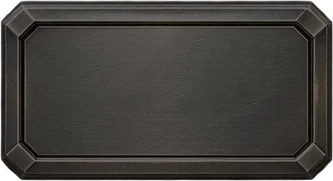
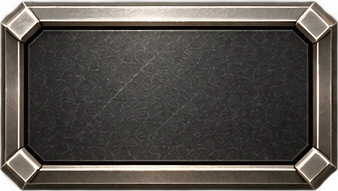
Prismatic skin redone in white gold and mother-of-pearl; its light travels: an iridescent sheen sweeps over the frame and the launch plate, the pointers catch it

diff --git a/ui/app.css b/ui/app.css
@@ -1978,7 +1978,7 @@ img.ring-master { box-shadow: 0 0 10px rgba(255, 211, 107, .75); }
   --frame: url("hud/infernal_frame.webp"); --frame-glow: url("hud/infernal_frame_glow.webp"); --ptr-t: url("hud/infernal_ptr_t.webp"); --ptr-t-glow: url("hud/infernal_ptr_t_glow.webp"); --ptr-b: url("hud/infernal_ptr_b.webp"); --ptr-b-glow: url("hud/infernal_ptr_b_glow.webp"); }
 :root[data-roulette="infernal"] .gs-strip { --k: 0.4; }
 :root[data-roulette="prism"] .strip-hud { display: block; }
-:root[data-roulette="prism"] :is(.strip, .gs-strip) { --edge-t: 30; --edge-b: 30; --edge-s: 6; --k: 0.5; --top: 70; --bottom: 69; --left: 80; --right: 80; --pw: 128; --pth: 104; --pbh: 103;
+:root[data-roulette="prism"] :is(.strip, .gs-strip) { --edge-t: 32; --edge-b: 34; --edge-s: 4; --k: 0.5; --top: 71; --bottom: 72; --left: 99; --right: 96; --pw: 140; --pth: 109; --pbh: 114;
   --frame: url("hud/prism_frame.webp"); --frame-glow: url("hud/prism_frame_glow.webp"); --ptr-t: url("hud/prism_ptr_t.webp"); --ptr-t-glow: url("hud/prism_ptr_t_glow.webp"); --ptr-b: url("hud/prism_ptr_b.webp"); --ptr-b-glow: url("hud/prism_ptr_b_glow.webp"); }
 :root[data-roulette="prism"] .gs-strip { --k: 0.235; }
 :root[data-roulette="void"] .strip-hud { display: block; }
@@ -2028,10 +2028,24 @@ img.ring-master { box-shadow: 0 0 10px rgba(255, 211, 107, .75); }
   box-shadow: 0 0 5px hsl(var(--h) 100% 62%), 0 0 12px rgba(255, 90, 20, .55); animation-duration: 1.25s; animation-timing-function: cubic-bezier(.25, .5, .6, 1); }
 
 /* prismatic: titanium and dichroic glass, the inlays shift color slowly as if the light moved */
-:root[data-roulette="prism"] .strip-hud .hg, :root[data-roulette="prism"] .strip-hud b::after { animation: hudDichro 7s ease-in-out infinite alternate; }
-:root[data-roulette="prism"] .strip-hud .hb { animation: hudDichroBloom 7s ease-in-out infinite alternate; }
-@keyframes hudDichro { 0% { filter: hue-rotate(-35deg); opacity: .35; } 50% { opacity: .9; } 100% { filter: hue-rotate(45deg); opacity: .55; } }
-@keyframes hudDichroBloom { 0% { filter: blur(5px) hue-rotate(-35deg); opacity: .2; } 50% { opacity: .6; } 100% { filter: blur(5px) hue-rotate(45deg); opacity: .35; } }
+/* prismatic: white gold and mother-of-pearl; the nacre breathes softly and a light sweeps over it now and then,
+   the pointers catching it as it passes the middle */
+:root[data-roulette="prism"] .strip-hud .hg, :root[data-roulette="prism"] .strip-hud .hb, :root[data-roulette="prism"] .strip-hud b::after {
+  animation: hudHeat 5s ease-in-out infinite alternate; }
+.strip-hud .hs, .strip-hud .ht { position: absolute; inset: 0; display: none; pointer-events: none; mix-blend-mode: screen;
+  -webkit-mask-box-image-source: var(--frame-glow); -webkit-mask-box-image-slice: var(--top) var(--right) var(--bottom) var(--left);
+  -webkit-mask-box-image-width: calc(var(--top) * var(--k) * 1px) calc(var(--right) * var(--k) * 1px) calc(var(--bottom) * var(--k) * 1px) calc(var(--left) * var(--k) * 1px);
+  -webkit-mask-box-image-repeat: stretch;
+  background: linear-gradient(100deg, transparent 0 44%, rgba(255, 255, 255, .7) 47.5%, #fff 49.5%, #fff 50.5%, rgba(255, 255, 255, .7) 52.5%, transparent 56% 100%) 100% 0 / 260% 100% no-repeat; }
+/* the iridescence travels with it: the nacre turns rose, aqua, then lavender as the light goes by */
+.strip-hud .ht { mix-blend-mode: multiply; background: linear-gradient(100deg, transparent 0 30%, rgba(255, 168, 208, .95) 36%,
+  rgba(132, 222, 232, .95) 41%, rgba(186, 160, 255, .95) 46%, transparent 50% 100%) 100% 0 / 260% 100% no-repeat; }
+:root[data-roulette="prism"] .strip-hud :is(.hs, .ht) { display: block; animation: hudSweep 6.5s ease-in-out infinite; }
+:root[data-roulette="prism"] .strip.spinning .strip-hud :is(.hs, .ht, b), :root[data-roulette="prism"] .gs-row.spinning .strip-hud :is(.hs, .ht, b) { animation-duration: 2s; }
+:root[data-roulette="prism"] .strip-hud .hf { filter: brightness(.86); }
+@keyframes hudSweep { 0%, 12% { background-position: 100% 0; } 60%, 100% { background-position: 0% 0; } }
+:root[data-roulette="prism"] .strip-hud b { animation: ptrGlint 6.5s ease-in-out infinite; }
+@keyframes ptrGlint { 0%, 30%, 44%, 100% { filter: none; } 36% { filter: brightness(1.9) drop-shadow(0 0 6px rgba(255, 240, 250, .9)); } }
 :root[data-roulette="prism"] .strip-marker::before, :root[data-roulette="prism"] .gs-mark {
   background: linear-gradient(180deg, transparent, rgba(225, 232, 248, .95) 12%, #fff 50%, rgba(225, 232, 248, .95) 88%, transparent);
   box-shadow: 0 0 8px rgba(200, 214, 255, .8), 0 0 20px rgba(170, 190, 255, .35); }
@@ -2110,46 +2124,6 @@ img.ring-master { box-shadow: 0 0 10px rgba(255, 211, 107, .75); }
 :root[data-roulette="infernal"] .rl-page .launch::after { left: 0; width: auto; right: 0; transform: none; background: url("hud/infernal_primary_glow.webp") center / 100% 100% no-repeat; mix-blend-mode: screen; animation: hudHeat 3.4s ease-in-out infinite alternate; }
 :root[data-roulette="infernal"] .rl-page .launch:hover { box-shadow: 0 14px 36px rgba(0, 0, 0, .55), 0 0 30px rgba(var(--acc), .18); }
 :root[data-roulette="infernal"] .rl-page .launch:hover::before { filter: brightness(1.15); }
-
-/* prism: the Roulette tab dressed in the kit of its skin (the other tabs don't change) */
-:root[data-roulette="prism"] .rl-page { --gold: #c9d1df; --gold-hi: #eef2f8; --gold-pale: #f4f6fa; --gold-deep: #5d6676; --gold-light: #e3e8f1;
-  --acc: 201, 209, 223; --acc-hi: 238, 242, 248; --hair-gold: rgba(201, 209, 223, .26);
-  --metal-hi: #ffffff; --metal: #dfe4ec; --metal-lo: #8d96a6; --on-metal: #141821;
-  --teal: #a9dcef; }
-:root[data-roulette="prism"] #main:has(.rl-page) { background: radial-gradient(90% 60% at 80% -10%, rgba(190, 205, 255, .07), transparent 60%), linear-gradient(180deg, rgba(12, 13, 17, .5), rgba(9, 10, 13, .68)); }
-:root[data-roulette="prism"] .rl-page { --pe: 7px 1px 7px 1px; }   /* where the panel frame's bars begin: the panels stay within */
-:root[data-roulette="prism"] .rl-page .card { background: none; backdrop-filter: none; border: 0; border-radius: 0; padding: 24px 28px; isolation: isolate; }
-:root[data-roulette="prism"] .rl-page .card::after { content: ""; position: absolute; inset: var(--pe); z-index: -1; background: linear-gradient(180deg, rgba(20, 22, 28, .8), rgba(11, 12, 16, .84)); pointer-events: none; }
-:root[data-roulette="prism"] .rl-page .w-hero .w-art, :root[data-roulette="prism"] .rl-page .w-hero .w-shade { inset: var(--pe); border-radius: 0; }
-:root[data-roulette="prism"] .rl-page .controls { padding: 26px 30px 22px; }
-:root[data-roulette="prism"] .rl-page .roll-now { border-color: rgba(169, 220, 239, .4); background: linear-gradient(90deg, rgba(169, 220, 239, .13), rgba(169, 220, 239, .02)); border-radius: 4px; }
-:root[data-roulette="prism"] .rl-page .roll-now:hover { box-shadow: 0 0 18px rgba(169, 220, 239, .16); }
-:root[data-roulette="prism"] .rl-page .card::before { inset: 0; border-radius: 0; background: none; border: solid transparent; border-width: 14px 25px 14px 25px;
-  border-image: url("hud/prism_panel.webp") 59 104 59 104 / 14px 25px 14px 25px stretch; z-index: 1; }
-:root[data-roulette="prism"] .rl-page .role-btn, :root[data-roulette="prism"] .rl-page .chip, :root[data-roulette="prism"] .rl-page .btn, :root[data-roulette="prism"] .rl-page .sr-pause { border: 0; border-radius: 0; background: none; box-shadow: none; isolation: isolate; color: #c4cad6; }
-:root[data-roulette="prism"] .rl-page .role-btn::before, :root[data-roulette="prism"] .rl-page .chip::before, :root[data-roulette="prism"] .rl-page .btn::before, :root[data-roulette="prism"] .rl-page .sr-pause::before { content: ""; position: absolute; inset: 0; z-index: -1; pointer-events: none; transition: filter .2s; }
-:root[data-roulette="prism"] .rl-page .role-btn::before { border: solid transparent; border-width: 14px 14px 14px 14px; border-image: url("hud/prism_btn.webp") 47 47 47 47 fill / 14px 14px 14px 14px stretch; }
-:root[data-roulette="prism"] .rl-page .chip::before, :root[data-roulette="prism"] .rl-page .btn::before, :root[data-roulette="prism"] .rl-page .sr-pause::before { border: solid transparent; border-width: 9px 9px 9px 9px; border-image: url("hud/prism_btn.webp") 47 47 47 47 fill / 9px 9px 9px 9px stretch; }
-:root[data-roulette="prism"] .rl-page .chip, :root[data-roulette="prism"] .rl-page .btn, :root[data-roulette="prism"] .rl-page .sr-pause { position: relative; }
-:root[data-roulette="prism"] .rl-page .role-btn:hover::before, :root[data-roulette="prism"] .rl-page .chip:hover::before, :root[data-roulette="prism"] .rl-page .btn:hover::before, :root[data-roulette="prism"] .rl-page .sr-pause:hover::before { filter: brightness(1.25); }
-:root[data-roulette="prism"] .rl-page .role-btn.on, :root[data-roulette="prism"] .rl-page .chip.on { color: #ffffff; background: none; box-shadow: none; }
-:root[data-roulette="prism"] .rl-page .role-btn.on::before { border-image-source: url("hud/prism_btn_on.webp"); filter: brightness(1.6) contrast(1.05); }
-:root[data-roulette="prism"] .rl-page .chip.on::before { border-image-source: url("hud/prism_btn_on.webp"); filter: brightness(1.6) contrast(1.05); }
-:root[data-roulette="prism"] .rl-page .role-btn.on::after, :root[data-roulette="prism"] .rl-page .chip.on::after { content: ""; position: absolute; inset: 0; z-index: -1; pointer-events: none; background: url("hud/prism_btn_on_glow.webp") center / 100% 100% no-repeat; mix-blend-mode: screen; animation: hudDichro 7s ease-in-out infinite alternate; }
-:root[data-roulette="prism"] .rl-page .gs-row { border-radius: 4px; background: linear-gradient(180deg, rgba(20, 22, 28, .8), rgba(11, 12, 16, .84)); }
-:root[data-roulette="prism"] .rl-page .gp-role { position: relative; border: 0; border-radius: 0; background: none; box-shadow: none; isolation: isolate; }
-:root[data-roulette="prism"] .rl-page .gp-role::before { content: ""; position: absolute; inset: 0; z-index: -1; pointer-events: none; border: solid transparent; border-width: 6px 6px 6px 6px; border-image: url("hud/prism_btn.webp") 47 47 47 47 fill / 6px 6px 6px 6px stretch; }
-:root[data-roulette="prism"] .rl-page .gp-role.on { background: none; box-shadow: none; }
-:root[data-roulette="prism"] .rl-page .gp-role.on::before { border-image-source: url("hud/prism_btn_on.webp"); filter: brightness(1.6) contrast(1.05); }
-:root[data-roulette="prism"] .rl-page .input { background: rgba(6, 5, 5, .55); border-color: rgba(var(--acc), .22); border-radius: 3px; }
-:root[data-roulette="prism"] .rl-page .btn-gold:not(.launch) { background: none; box-shadow: none; border-radius: 0; isolation: isolate; color: #ffffff; overflow: visible; }
-:root[data-roulette="prism"] .rl-page .btn-gold:not(.launch)::before { content: ""; position: absolute; inset: 0; z-index: -1; border: solid transparent; border-width: 10px 10px 10px 10px; border-image: url("hud/prism_btn_on.webp") 46 46 46 46 fill / 10px 10px 10px 10px stretch; }
-:root[data-roulette="prism"] .rl-page .btn-gold:not(.launch)::after { display: none; }
-:root[data-roulette="prism"] .rl-page .launch { background: none; box-shadow: 0 12px 30px rgba(0, 0, 0, .5); border-radius: 0; overflow: visible; }
-:root[data-roulette="prism"] .rl-page .launch::before { padding: 0; -webkit-mask: none; mask: none; background: none; border: solid transparent; border-width: 24px 24px 24px 24px; border-image: url("hud/prism_primary.webp") 71 71 71 71 fill / 24px 24px 24px 24px stretch; }
-:root[data-roulette="prism"] .rl-page .launch::after { left: 0; width: auto; right: 0; transform: none; background: url("hud/prism_primary_glow.webp") center / 100% 100% no-repeat; mix-blend-mode: screen; animation: hudDichro 7s ease-in-out infinite alternate; }
-:root[data-roulette="prism"] .rl-page .launch:hover { box-shadow: 0 14px 36px rgba(0, 0, 0, .55), 0 0 30px rgba(var(--acc), .18); }
-:root[data-roulette="prism"] .rl-page .launch:hover::before { filter: brightness(1.15); }
 
 /* void: the Roulette tab dressed in the kit of its skin (the other tabs don't change) */
 :root[data-roulette="void"] .rl-page { --gold: #b897e6; --gold-hi: #dac6f6; --gold-pale: #efe7fb; --gold-deep: #4a2f6e; --gold-light: #ddcdf4;
@@ -2230,3 +2204,44 @@ img.ring-master { box-shadow: 0 0 10px rgba(255, 211, 107, .75); }
 :root[data-roulette="gold"] .rl-page .launch::after { left: 0; width: auto; right: 0; transform: none; background: url("hud/gold_primary_glow.webp") center / 100% 100% no-repeat; mix-blend-mode: screen; animation: hudHeat 6s ease-in-out infinite alternate; }
 :root[data-roulette="gold"] .rl-page .launch:hover { box-shadow: 0 14px 36px rgba(0, 0, 0, .55), 0 0 30px rgba(var(--acc), .18); }
 :root[data-roulette="gold"] .rl-page .launch:hover::before { filter: brightness(1.15); }
+
+/* prism: the Roulette tab dressed in the kit of its skin (the other tabs don't change) */
+:root[data-roulette="prism"] .rl-page { --gold: #e2d4c0; --gold-hi: #f5ece0; --gold-pale: #fbf6ef; --gold-deep: #6e6252; --gold-light: #efe3d3;
+  --acc: 226, 212, 192; --acc-hi: 245, 236, 224; --hair-gold: rgba(226, 212, 192, .26);
+  --metal-hi: #fffaf3; --metal: #eadccb; --metal-lo: #a6957e; --on-metal: #1d1914;
+  --teal: #c9e6e4; }
+:root[data-roulette="prism"] #main:has(.rl-page) { background: radial-gradient(90% 60% at 80% -10%, rgba(240, 225, 235, .06), transparent 60%), linear-gradient(180deg, rgba(13, 13, 15, .52), rgba(9, 9, 11, .7)); }
+:root[data-roulette="prism"] .rl-page { --pe: 7px 1px 8px 1px; }   /* where the panel frame's bars begin: the panels stay within */
+:root[data-roulette="prism"] .rl-page .card { background: none; backdrop-filter: none; border: 0; border-radius: 0; padding: 24px 28px; isolation: isolate; }
+:root[data-roulette="prism"] .rl-page .card::after { content: ""; position: absolute; inset: var(--pe); z-index: -1; background: linear-gradient(180deg, rgba(20, 20, 22, .8), rgba(11, 11, 13, .84)); pointer-events: none; }
+:root[data-roulette="prism"] .rl-page .w-hero .w-art, :root[data-roulette="prism"] .rl-page .w-hero .w-shade { inset: var(--pe); border-radius: 0; }
+:root[data-roulette="prism"] .rl-page .controls { padding: 26px 30px 22px; }
+:root[data-roulette="prism"] .rl-page .roll-now { border-color: rgba(201, 230, 228, .4); background: linear-gradient(90deg, rgba(201, 230, 228, .13), rgba(201, 230, 228, .02)); border-radius: 4px; }
+:root[data-roulette="prism"] .rl-page .roll-now:hover { box-shadow: 0 0 18px rgba(201, 230, 228, .16); }
+:root[data-roulette="prism"] .rl-page .card::before { inset: 0; border-radius: 0; background: none; border: solid transparent; border-width: 13px 25px 13px 25px;
+  border-image: url("hud/prism_panel.webp") 56 105 56 105 / 13px 25px 13px 25px stretch; z-index: 1; }
+:root[data-roulette="prism"] .rl-page .role-btn, :root[data-roulette="prism"] .rl-page .chip, :root[data-roulette="prism"] .rl-page .btn, :root[data-roulette="prism"] .rl-page .sr-pause { border: 0; border-radius: 0; background: none; box-shadow: none; isolation: isolate; color: #cfc8bf; }
+:root[data-roulette="prism"] .rl-page .role-btn::before, :root[data-roulette="prism"] .rl-page .chip::before, :root[data-roulette="prism"] .rl-page .btn::before, :root[data-roulette="prism"] .rl-page .sr-pause::before { content: ""; position: absolute; inset: 0; z-index: -1; pointer-events: none; transition: filter .2s; }
+:root[data-roulette="prism"] .rl-page .role-btn::before { border: solid transparent; border-width: 15px 15px 15px 15px; border-image: url("hud/prism_btn.webp") 49 49 49 49 fill / 15px 15px 15px 15px stretch; }
+:root[data-roulette="prism"] .rl-page .chip::before, :root[data-roulette="prism"] .rl-page .btn::before, :root[data-roulette="prism"] .rl-page .sr-pause::before { border: solid transparent; border-width: 10px 10px 10px 10px; border-image: url("hud/prism_btn.webp") 49 49 49 49 fill / 10px 10px 10px 10px stretch; }
+:root[data-roulette="prism"] .rl-page .chip, :root[data-roulette="prism"] .rl-page .btn, :root[data-roulette="prism"] .rl-page .sr-pause { position: relative; }
+:root[data-roulette="prism"] .rl-page .role-btn:hover::before, :root[data-roulette="prism"] .rl-page .chip:hover::before, :root[data-roulette="prism"] .rl-page .btn:hover::before, :root[data-roulette="prism"] .rl-page .sr-pause:hover::before { filter: brightness(1.25); }
+:root[data-roulette="prism"] .rl-page .role-btn.on, :root[data-roulette="prism"] .rl-page .chip.on { color: #fffaf4; background: none; box-shadow: none; }
+:root[data-roulette="prism"] .rl-page .role-btn.on::before { border-image-source: url("hud/prism_btn_on.webp"); filter: brightness(1.15); }
+:root[data-roulette="prism"] .rl-page .chip.on::before { border-image-source: url("hud/prism_btn_on.webp"); filter: brightness(1.15); }
+:root[data-roulette="prism"] .rl-page .role-btn.on::after, :root[data-roulette="prism"] .rl-page .chip.on::after { content: ""; position: absolute; inset: 0; z-index: -1; pointer-events: none; background: url("hud/prism_btn_on_glow.webp") center / 100% 100% no-repeat; mix-blend-mode: screen; animation: hudHeat 5s ease-in-out infinite alternate; }
+:root[data-roulette="prism"] .rl-page .gs-row { border-radius: 4px; background: linear-gradient(180deg, rgba(20, 20, 22, .8), rgba(11, 11, 13, .84)); }
+:root[data-roulette="prism"] .rl-page .gp-role { position: relative; border: 0; border-radius: 0; background: none; box-shadow: none; isolation: isolate; }
+:root[data-roulette="prism"] .rl-page .gp-role::before { content: ""; position: absolute; inset: 0; z-index: -1; pointer-events: none; border: solid transparent; border-width: 6px 6px 6px 6px; border-image: url("hud/prism_btn.webp") 49 49 49 49 fill / 6px 6px 6px 6px stretch; }
+:root[data-roulette="prism"] .rl-page .gp-role.on { background: none; box-shadow: none; }
+:root[data-roulette="prism"] .rl-page .gp-role.on::before { border-image-source: url("hud/prism_btn_on.webp"); filter: brightness(1.15); }
+:root[data-roulette="prism"] .rl-page .input { background: rgba(6, 5, 5, .55); border-color: rgba(var(--acc), .22); border-radius: 3px; }
+:root[data-roulette="prism"] .rl-page .btn-gold:not(.launch) { background: none; box-shadow: none; border-radius: 0; isolation: isolate; color: #fffaf4; overflow: visible; }
+:root[data-roulette="prism"] .rl-page .btn-gold:not(.launch)::before { content: ""; position: absolute; inset: 0; z-index: -1; border: solid transparent; border-width: 11px 11px 11px 11px; border-image: url("hud/prism_btn_on.webp") 49 49 49 49 fill / 11px 11px 11px 11px stretch; }
+:root[data-roulette="prism"] .rl-page .btn-gold:not(.launch)::after { display: none; }
+:root[data-roulette="prism"] .rl-page .launch { background: none; box-shadow: 0 12px 30px rgba(0, 0, 0, .5); border-radius: 0; overflow: visible; }
+:root[data-roulette="prism"] .rl-page .launch::before { padding: 0; -webkit-mask: none; mask: none; background: none; border: solid transparent; border-width: 25px 25px 25px 25px; border-image: url("hud/prism_primary.webp") 74 74 74 74 fill / 25px 25px 25px 25px stretch; }
+:root[data-roulette="prism"] .rl-page .launch::after { left: 0; width: auto; right: 0; transform: none; background: url("hud/prism_primary_glow.webp") center / 100% 100% no-repeat; mix-blend-mode: screen; animation: hudHeat 5s ease-in-out infinite alternate; }
+:root[data-roulette="prism"] .rl-page .launch::after { background: linear-gradient(100deg, transparent 0 40%, rgba(255, 246, 252, .95) 48%, rgba(225, 245, 255, .8) 52%, transparent 60% 100%) 100% 0 / 260% 100% no-repeat; mix-blend-mode: screen; -webkit-mask-box-image-source: url("hud/prism_primary_glow.webp"); -webkit-mask-box-image-slice: 74 74 74 74; -webkit-mask-box-image-width: 25px 25px 25px 25px; -webkit-mask-box-image-repeat: stretch; animation: hudSweep 6.5s 1.2s ease-in-out infinite; }
+:root[data-roulette="prism"] .rl-page .launch:hover { box-shadow: 0 14px 36px rgba(0, 0, 0, .55), 0 0 30px rgba(var(--acc), .18); }
+:root[data-roulette="prism"] .rl-page .launch:hover::before { filter: brightness(1.15); }

diff --git a/ui/js/roulette.js b/ui/js/roulette.js
@@ -323,8 +323,9 @@ function shuffle(a) {
   return a;
 }
 
-// frame of the roulette skins (rewards path): the frame, its glow and its bloom, and the two pointers of the center
-const HUD = `<div class="strip-hud"><i class="hf"></i><i class="hg"></i><i class="hb"></i><b class="pt"></b><b class="pb"></b></div>`;
+// frame of the roulette skins (rewards path): the frame, its glow, its bloom and a sweeping light, and the two pointers
+// of the center
+const HUD = `<div class="strip-hud"><i class="hf"></i><i class="hg"></i><i class="hb"></i><i class="ht"></i><i class="hs"></i><b class="pt"></b><b class="pb"></b></div>`;
 
 function champCard(key, name) {
   return `<div class="scard" style="background-image:url('${img.tall(key)}')"><b>${esc(name)}</b></div>`;
